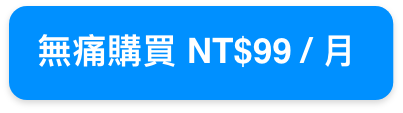
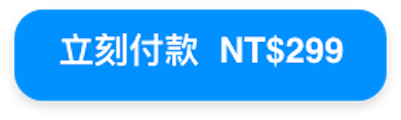
change price

Changed region(s): [[0.0898, 0.2655, 0.8678, 0.6106], [0.0, 0.0531, 0.9875, 0.9027]]

diff --git a/pages/resume/index.vue b/pages/resume/index.vue
@@ -30,7 +30,7 @@
                     求職季的競爭<br>
                     比的不只是好，更是快<br>
                     <div class="sb-addition">
-                        使用一個月99元，獲得履歷課程與無限次履歷評測
+                        使用一季299元，獲得履歷課程與無限次履歷評測
                     </div>
             </div>
             <img src="/resume/Mask Group 4.png" style="margin-top:10px"/>
@@ -95,7 +95,7 @@
                     <iframe id="demovideo" :src="'https://player.vimeo.com/video/' + getChapterData01.video_id" frameborder="0" allow="autoplay; fullscreen" allowfullscreen></iframe>
                 </div>
                 <div id="democourses">
-                    <div id="dc-1" class="course">
+                    <div id="dc-1" class="course" @click="switchCourse(getChapterData01.video_id)">
                         <div class="c-img"><img :src="getChapterData01.thumbnail"/></div>
                         <div class="c-title">面試官思維分析(試讀)</div>
                         <div class="c-context">{{ getChapterData01.description }}</div>
@@ -321,29 +321,25 @@
                     <br><br>
                     <b>Q2: 課程可以看幾次？</b>
                     <br><br>
-                    課程為單月份訂閱制，在訂購後的這一個月內都可以一直重複觀看。
+                    課程為單季學習制，在訂購後的這一季內都可以一直重複觀看。
                     <br><br>
-                    <b>Q3：請問 NT99 元/月的訂閱服務之後會有更新內容嗎？</b>
+                    <b>Q3： NT299 元/季學習服務之後會有更新內容嗎？</b>
                     <br><br>
-                    會的，未來我們將會持續更新所有職場必備技能的線上學習服務（課程+評測），從商用書信到溝通表達等內容，完整包覆 360 天職場需求。為回饋狂人飛鐵粉，即日起到 2019/6/30 前訂閱，即可以終生以 NT99 元/月的價格訂購（原價為 NT199 元/月，中間斷訂的話則恢復常態 NT199 元/月計費)
+                    會的，未來我們將會持續更新所有職場必備技能的線上學習服務（課程+評測），從商用書信到溝通表達等內容，完整包覆 360 天職場需求。為回饋狂人飛鐵粉，即日起到 2019/8/3 前訂閱，即可以 NT299 元/季的價格訂購（原價為 NT499 元/季)。
                     <br><br>
                     <b>Q4: 會有真人幫我把我的履歷改到好嗎？</b>
                     <br><br>
                     不會，給你魚吃，不如給你一把釣竿。我們將透過 AI 人工智能為您檢測，並針對不足之處，教你合適的撰寫方式。
                     <br><br>
-                    <b>Q5: 取消訂閱</b>
-                    <br><br>
-                    欲取消訂閱服務須請來信至 contact@flyingcrazyer.com 提出，將有專人協助為您服務。
-                    <br><br>
-                    <b>Q6: 付款方式</b>
+                    <b>Q5: 付款方式</b>
                     <br><br>
                     讓狂人飛與日商恩沛股份有限公司提供之「AFTEE」後支付服務獨家合作，是收到商品後才付款的支付方式。<br>不須輸入繁瑣的個人資料，也不須登錄會員即可立即免費使用！<br>將於下單後 24 小時內透過簡訊寄送繳費通知，您可透過便利商店代收服務或 ATM 繳費等方式完成付款手續。<br>瞭解更多>> <a style="color:white;text-decoration: underline;" href="https://lihi.vip/JpeZj" target="_blanck">https://lihi.vip/JpeZj</a>
                     <br><br>
-                    <b>Q7: 電子發票開立</b>
+                    <b>Q6: 電子發票開立</b>
                     <br><br>
                     將於付款後 30 天內寄送至您註冊之電子信箱。
                     <br><br>
-                    <b>Q8: 其他問題</b>
+                    <b>Q7: 其他問題</b>
                     <br><br>
                     請來信至 contact@flyingcrazyer.com ，將有專人協助為您服務。
                 </div>
@@ -387,7 +383,7 @@
                     求職季的競爭<br>
                     比的不只是好，更是快<br>
                     <div class="md-sb-addition">
-                        使用一個月99元，獲得履歷課程與無限次履歷評測
+                        使用一季299元，獲得履歷課程與無限次履歷評測
                     </div>
             </div>
                 <img src="/resume/md-Mask Group 4.png" style="margin-left:24%;width:500px;"/>
@@ -451,7 +447,7 @@
                     <iframe id="demovideo" :src="'https://player.vimeo.com/video/' + getChapterData01.video_id" frameborder="0" allow="autoplay; fullscreen" allowfullscreen width="640px" height="360px"></iframe>
                 </div>
                 <div id="democourses">
-                    <div id="dc-1" class="md-course">
+                    <div id="dc-1" class="md-course" @click="switchCourse(getChapterData01.video_id)">
                         <div class="md-c-img"><img :src="getChapterData01.thumbnail"/></div>
                         <div class="md-c-box">
                             <div class="md-c-title">面試官思維分析(試讀)</div>
@@ -624,29 +620,25 @@
                     <br><br>
                     <b>Q2: 課程可以看幾次？</b>
                     <br><br>
-                    課程為單月份訂閱制，在訂購後的這一個月內都可以一直重複觀看。
+                    課程為單季學習制，在訂購後的這一季內都可以一直重複觀看。
                     <br><br>
-                    <b>Q3：請問 NT99 元/月的訂閱服務之後會有更新內容嗎？</b>
+                    <b>Q3： NT299 元/季學習服務之後會有更新內容嗎？</b>
                     <br><br>
-                    會的，未來我們將會持續更新所有職場必備技能的線上學習服務（課程+評測），從商用書信到溝通表達等內容，完整包覆 360 天職場需求。為回饋狂人飛鐵粉，即日起到 2019/6/30 前訂閱，即可以終生以 NT99 元/月的價格訂購（原價為 NT199 元/月，中間斷訂的話則恢復常態 NT199 元/月計費)
+                    會的，未來我們將會持續更新所有職場必備技能的線上學習服務（課程+評測），從商用書信到溝通表達等內容，完整包覆 360 天職場需求。為回饋狂人飛鐵粉，即日起到 2019/8/3 前訂閱，即可以 NT299 元/季的價格訂購（原價為 NT499 元/季)。
                     <br><br>
                     <b>Q4: 會有真人幫我把我的履歷改到好嗎？</b>
                     <br><br>
                     不會，給你魚吃，不如給你一把釣竿。我們將透過 AI 人工智能為您檢測，並針對不足之處，教你合適的撰寫方式。
                     <br><br>
-                    <b>Q5: 取消訂閱</b>
-                    <br><br>
-                    欲取消訂閱服務須請來信至 contact@flyingcrazyer.com 提出，將有專人協助為您服務。
-                    <br><br>
-                    <b>Q6: 付款方式</b>
+                    <b>Q5: 付款方式</b>
                     <br><br>
                     讓狂人飛與日商恩沛股份有限公司提供之「AFTEE」後支付服務獨家合作，是收到商品後才付款的支付方式。<br>不須輸入繁瑣的個人資料，也不須登錄會員即可立即免費使用！<br>將於下單後 24 小時內透過簡訊寄送繳費通知，您可透過便利商店代收服務或 ATM 繳費等方式完成付款手續。<br>瞭解更多>> <a style="color:white;text-decoration: underline;" href="https://lihi.vip/JpeZj" target="_blanck">https://lihi.vip/JpeZj</a>
                     <br><br>
-                    <b>Q7: 電子發票開立</b>
+                    <b>Q6: 電子發票開立</b>
                     <br><br>
                     將於付款後 30 天內寄送至您註冊之電子信箱。
                     <br><br>
-                    <b>Q8: 其他問題</b>
+                    <b>Q7: 其他問題</b>
                     <br><br>
                     請來信至 contact@flyingcrazyer.com ，將有專人協助為您服務。
                 </div>
@@ -806,9 +798,9 @@ export default {
                 var dcPlayer = new Vimeo.Player(this.dv);
                 var shareurl = "https://www.ludonow.com/resume";
                 var sharelink = "https://www.facebook.com/sharer/sharer.php?kid_directed_site=0&sdk=joey&u="+encodeURIComponent(shareurl)+"&display=popup&ref=plugin&src=share_button"
-                document.getElementById("democourses").onclick = function(){
-                    document.getElementById("fbshare").style.display = "block";
-                }
+                // document.getElementById("democourses").onclick = function(){
+                //     document.getElementById("fbshare").style.display = "block";
+                // }
                 function openShareWindow(){
                     localStorage.isShared = 'true';
                     window.open(sharelink,"share","width=1000,height=600");
@@ -816,7 +808,6 @@ export default {
                 }
                 document.getElementById("clickshare").onclick = openShareWindow;
                 document.getElementById("share-mask").onclick = openShareWindow;
-                $("#dc-1").click(()=>switchCourse(getChapterData01.video_id));
 
                 dcPlayer.on('ended', this.onEndCallback);
                 dcPlayer.on('play',this.onPlayCallback);
@@ -876,7 +867,7 @@ export default {
                     "brand": "讓狂人飛",
                     "category": "online AI course",
                     "quantity": 1,
-                    "price": 199
+                    "price": 299
                     },
                 ]
             });
@@ -888,7 +879,7 @@ export default {
                     "brand": "讓狂人飛",
                     "category": "online AI course",
                     "quantity": 1,
-                    "price": 199
+                    "price": 299
                     },
                 ]
             });

diff --git a/pages/resume/pay.vue b/pages/resume/pay.vue
@@ -1,7 +1,7 @@
 <template>
     <div class="signup-pay-page">
         <div class="sp-title">履歷課程與評測</div>
-        <div class="sp-subtitle">使用一個月 NT$99</div>
+        <div class="sp-subtitle">使用一季 NT$299</div>
         <div class="main-block">
             <div v-if="!is_login">
                 <div class="reg-title">{{ !directReg ? '註冊/登入' : '直接註冊' }}</div>
@@ -64,7 +64,7 @@
                 <receipt-type :wordDark="true" @onReceiptTypeChange="onReceiptTypeChange"/>
                 <div class="payment-container">
                     <div class="payment-info">
-                        <div class="price">共計　新台幣　99 元</div>
+                        <div class="price">共計　新台幣　299 元</div>
                         <div class="go-pay" :class="agree_contract_or_not ? '' : 'unchecked'" @click="agree_contract_or_not ? onSubmit() : () => {}">前往付款</div>
                     </div>
                 </div>
@@ -132,7 +132,7 @@ export default {
             receipt_type:'e-receipt',
         },
         aftee_data : {
-          amount:99,
+          amount:299,
           customer:{
             address:'none',
             customer_name:"",
@@ -143,7 +143,7 @@ export default {
             {
               item_count:1,
               item_name:'履歷課程與評測(一個月)',
-              item_price:99,
+              item_price:299,
               shop_item_id:'resume_01',
             }
           ],
@@ -249,7 +249,7 @@ export default {
             }
             this.$gtag('event', 'purchase', {
                 "transaction_id": this.aftee_data.shop_transaction_no,
-                "value": 99,
+                "value": 299,
                 "currency": "TWD",
                 "tax": 2.85,
                 "items": [
@@ -259,7 +259,7 @@ export default {
                     "brand": "讓狂人飛",
                     "category": "online AI course",
                     "quantity": 1,
-                    "price": 99
+                    "price": 299
                     },
                 ],
             });
@@ -343,7 +343,7 @@ export default {
                     "brand": "讓狂人飛",
                     "category": "online AI course",
                     "quantity": 1,
-                    "price": 99
+                    "price": 299
                     },
                 ],
                 'checkout_step' : 4,
@@ -368,7 +368,7 @@ export default {
                             "brand": "讓狂人飛",
                             "category": "online AI course",
                             "quantity": 1,
-                            "price": 99
+                            "price": 299
                             },
                         ],
                         'checkout_step' : 5,
@@ -389,7 +389,7 @@ export default {
                             "brand": "讓狂人飛",
                             "category": "online AI course",
                             "quantity": 1,
-                            "price": 99
+                            "price": 299
                             },
                         ],
                         'checkout_step' : 5,
@@ -465,7 +465,7 @@ export default {
                         "brand": "讓狂人飛",
                         "category": "online AI course",
                         "quantity": 1,
-                        "price": 99
+                        "price": 299
                         },
                     ],
                     'checkout_step' : 1,
@@ -489,7 +489,7 @@ export default {
                             "brand": "讓狂人飛",
                             "category": "online AI course",
                             "quantity": 1,
-                            "price": 99
+                            "price": 299
                             },
                         ],
                         'checkout_step' : 2,
@@ -514,7 +514,7 @@ export default {
                         "brand": "讓狂人飛",
                         "category": "online AI course",
                         "quantity": 1,
-                        "price": 99
+                        "price": 299
                         },
                     ],
                     'checkout_step' : 3,
@@ -558,7 +558,7 @@ export default {
                     "brand": "讓狂人飛",
                     "category": "online AI course",
                     "quantity": 1,
-                    "price": 99
+                    "price": 299
                     },
                 ]
             });
@@ -573,7 +573,7 @@ export default {
                         "brand": "讓狂人飛",
                         "category": "online AI course",
                         "quantity": 1,
-                        "price": 99
+                        "price": 299
                         },
                     ],
                     'checkout_step' : 1,

diff --git a/config/resume-examples.js b/config/resume-examples.js
@@ -67,8 +67,8 @@ module.exports = {
 			{example:'',description:''},
 		],
 		C: [
-			{example:'',description:''},
-			{example:'',description:''},
+			{example:'OO有限公司｜遊戲設計師<br>1. 遊戲點子發想<br>2. 跨領域溝通 (程式設計師、美術師)<br>3. 帶領程式設計師實現產品',description:'1.以三個項目說明自己的整體工作<br>2.提及溝通涉及的對象，幫助主管想像其能解決的問題'},
+			{example:'OO台灣總代理   營運專員<br>1.新車發表會規劃及執行<br>2.外展客戶開發規劃及執行<br>3.異業廠商合作開發<br>4.講座形式活動規劃執行<br>5.各活動宣傳及場地佈置設計及輸出<br>6.活動影片剪輯<br>7.試駕會活動企劃執行<br>8.年度行銷預算及活動規劃<br>9.優惠活動推廣<br>10.佳節活動規劃及執行',description:'1.條列說明經歷過的專案與領域<br>2.塑造出能解決此領域相關問題的萬能形象'},
 			{example:'',description:''},
 			{example:'',description:''},
 			{example:'',description:''},

diff --git a/config/resume-config.js b/config/resume-config.js
@@ -1,7 +1,7 @@
 module.exports = {
     project_name:'resume',
     title:'讓履歷飛 - ',
-    logo: "/resume/resume-logo.svg",
+    logo: "/resume/resume-logo.png",
     base_color: '#0090FF',
     fbq_id: '438072703402139',
     view: {
